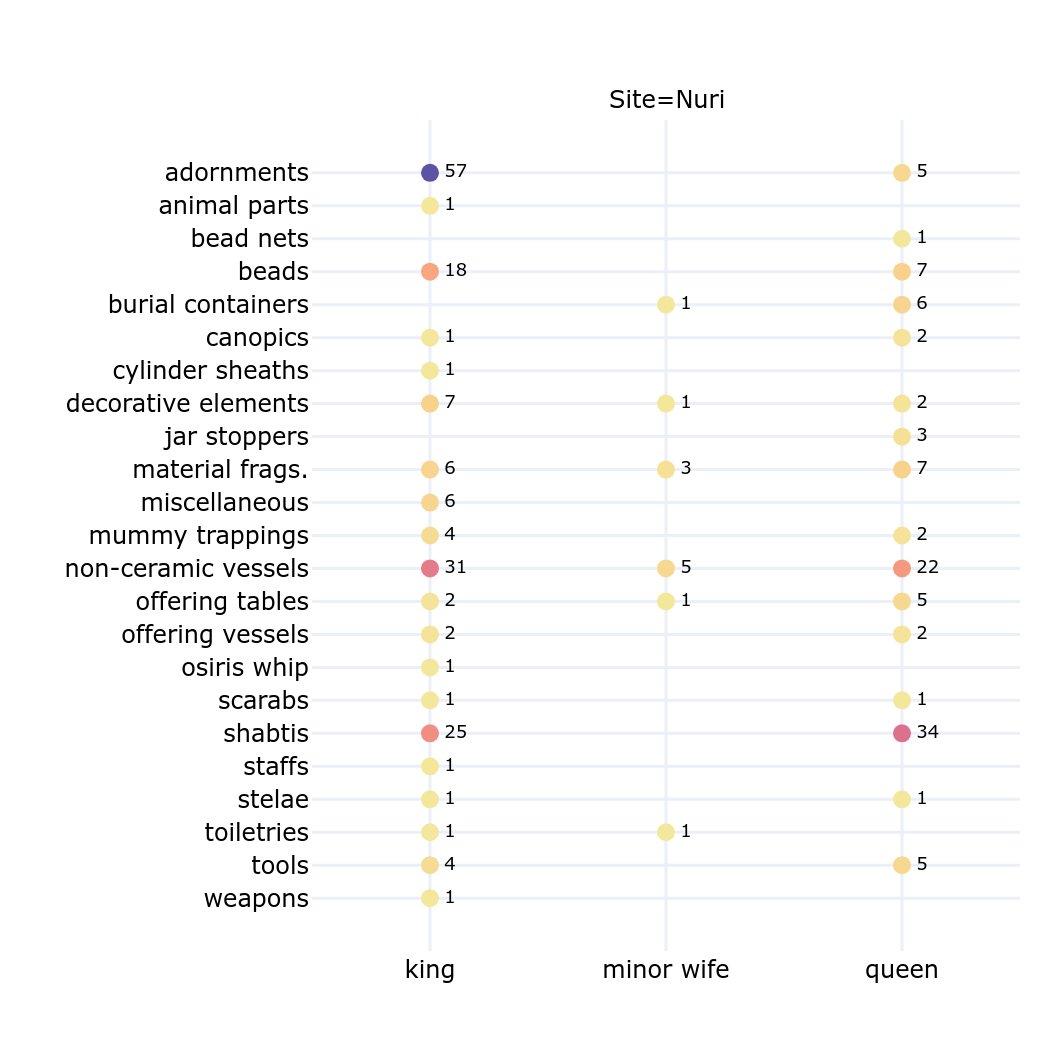
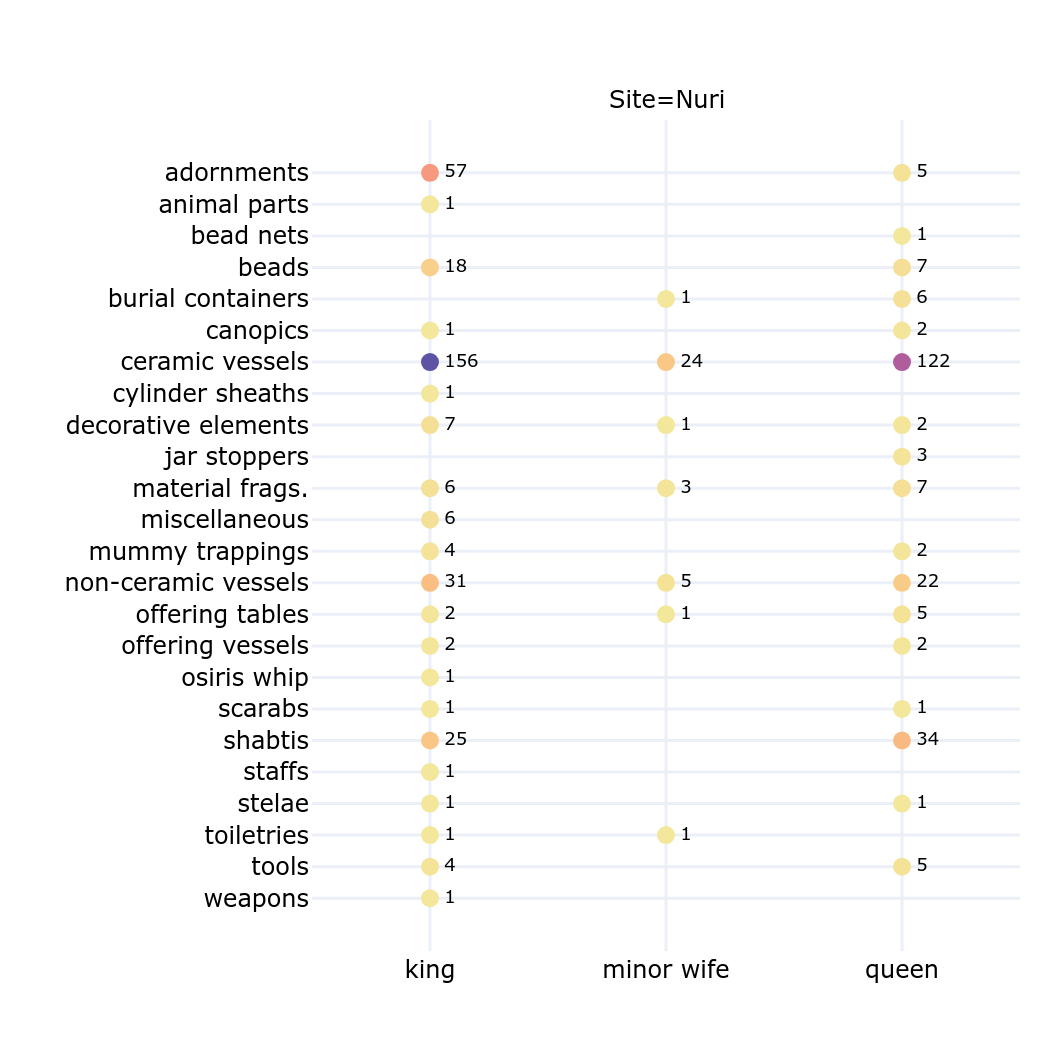
finished chapter 4 revision

diff --git a/chapters/4-chapter4.tex b/chapters/4-chapter4.tex
@@ -1425,9 +1425,7 @@ Similarly to Middle Napatan, the majority of tombs featured a chapel, with the s
  Object types at the two El-Kurru pyramids were very limited (Figure \ref{fig:LN-royal-objs}). The unused king's tomb (Ku. 1) only yielded ceramic and offering vessels, whereas the queen's pyramid (Ku. 2) featured, possibly, 152 shabtis---Reisner found the shabtis in Ku. 6 and presumed that they were originally from Ku. 2 \parencites[p.~25, 43]{dunhamElKurru1950}. At Nuri, shabtis are much less numerous than previous periods, with 34 instances with queens and 25 with kings. Scarabs and animals parts, absent during the Middle Napatan phase, resumed in Late Napatan burial assemblages. In contrast, furniture,  scarabs and statuettes are entirely absent in this group. The disappearance of furniture is likely attributable to poorer preservation conditions, given that such items were often made of perishable materials, such as wood. The case of heart scarabs is more intriguing; although always a rare occurrence in previous phases, they were nonetheless present, sometimes in a pair. Their complete absence in the Late Napatan period is therefore significant and may reflect a shift in burial practices.
  
  
- Regarding Nuri, a unique find from this phase is a model Osiris whip (or flail) made of gold, found in the tomb of king Harsijotef (Nu. 13). As no other examples appear in any previous phase, its singular occurrence may be a result of looting, in the case others were also made of gold. Flails have been included as graves goods of Egyptian kings, namely Senebtisi and Hapiankhtifi from the Middle Kingdom \parencites[p.~78, figs.~35, 9]{maceTombSenebtisiLisht1916}[p.~244, cat.~181]{quirkeUnderstandingDeathJourney2015}. Tutmosis III's mummy also suggested that he was buried grasping a cylindrical object in his left hand, likely a flail, which was taken when his burial was looted \parencites[p.~5]{smithRoyalMummiesCG1912}. This could potentially be the case with other Napatan royal burials. Bead nets are an interesting case as well; since their emergence in the 25th Dynasty, they were exclusively found in female burials, primarily at queens', up to the Late Napatan phase. This pattern suggests that they may have a gender and title association.
- The number of shabtis in Nuri decreased significantly, with only 34 instances in queens' tombs and 25 in kings'. Nevertheless, they were one of the most common object types, along with adornments, and non-ceramic vessels. Surprisingly, no ceramic vessels were recorded  
- As with the previous phase, kings were buried with the most diverse object assemblage, lacking only bead nets, burial containers and jar stoppers.
+ Regarding Nuri, a unique find from this phase is a model Osiris whip (or flail) made of gold, found in the tomb of king Harsijotef (Nu. 13). As no other examples appear in any previous phase, its singular occurrence may be a result of looting, in the case others were also made of gold. Flails have been included as graves goods of Egyptian kings, namely Senebtisi and Hapiankhtifi from the Middle Kingdom \parencites[p.~78, figs.~35, 9]{maceTombSenebtisiLisht1916}[p.~244, cat.~181]{quirkeUnderstandingDeathJourney2015}. Tutmosis III's mummy also suggested that he was buried grasping a cylindrical object in his left hand, likely a flail, which was taken when his burial was looted \parencites[p.~5]{smithRoyalMummiesCG1912}. This could potentially be the case with other Napatan royal burials. Bead nets are an interesting case as well; since their emergence in the 25th Dynasty, they were exclusively found in female burials, primarily at queens', up to the Late Napatan phase. This pattern suggests that they may have a gender and title association. The number of shabtis in Nuri decreased significantly, with only 34 instances in queens' tombs and 25 in kings'. Nevertheless, they were one of the most common object types, along with adornments, and ceramic and non-ceramic vessels. As with the previous phase, kings were buried with the most diverse object assemblage, lacking only bead nets, burial containers and jar stoppers. Overall, the number and diversity of object types decreased compared to earlier phases.
  
  
  \subsection{Amulets} 
@@ -1462,7 +1460,7 @@ Similarly to Middle Napatan, the majority of tombs featured a chapel, with the s
  }
  
  
- The Late Napatan period featured the least amount of amulets of all Napatan phases, with only 17 amulets distributed in 6 tombs (Table \ref{tab:LN-royal-distro}). As in the Middle Napatan period, not all kings' tombs contained amulets. However, their frequency increases, with amulets appearing in 60\% of kings' burials. 50\% of queens' were buried with amulets, in contrast to the total absence of amulets in the burials of minor wives. Furthermore, queens and kings were buried with the same average number of amulets.
+This phase contains only 17 amulets distributed across 6 tombs (Table \ref{tab:LN-royal-distro}). As with the previous phase, not all kings' tombs contained amulets. However, their frequency increased to 60\%. 50\% of queens' were buried with amulets, in contrast to the total absence of amulets in the three burials of minor wives. The median number of amulets was the same as the previous phase, 1 for kings and 0 for queens and minor wives.
  
  
  \subsubsection{Amulet types}
@@ -1475,20 +1473,22 @@ Similarly to Middle Napatan, the majority of tombs featured a chapel, with the s
  \end{figure}
  
  
- There are only two categories of Late Napatan amulets: symbols and deities (Figure \ref{fig:LN-royal-types}). Symbols continue to be more numerous, with 15 amulets: seven with kings and eight with queens. Deities comprise two amulets, one in each type of burial.
+There are only two categories of amulets: symbols and deities (Figure \ref{fig:LN-royal-types}). Even with the low number of amulets, symbols were still the most common, with 15 amulets. Seven were found with kings and eight with queens. Deities comprise only two amulets, one with each owner.
  
  
- \subsubsection{Amulet motifs}
+\subsubsection{Amulet motifs}
  
- \begin{figure}[H]
+\begin{figure}[H]
  	\centering
  	\includegraphics[width=1\textwidth]{LN-royal-motifs}
  	\caption{Distribution of amulet motifs in Late Napatan royal tombs by occupant's title.}
  	\label{fig:LN-royal-motifs}
- \end{figure}
+\end{figure}
  
  
- Unlike previous phases, in Late Napatan, kings' burials feature the most diverse set of amulet motifs, with six different ones, in contrast with only two for queens (Figure \ref{fig:LN-royal-motifs}). The \textit{udjat} resumed its position as the most common amulet, primarily associated with queens. Both of the kings' \textit{udjat} amulets were buried with Harsijotef (Nu. 13) and were strung in a gold wire forming bracelets (Figure \ref{fig:LN-royal-udjat}). Conversely, the \textit{menat} is represented by only one amulet, included in the tomb of king Baskakeren (Nu. 17).
+Unlike previous phases, in the Late Napatan phase, kings' burials feature the most diverse set of amulet motifs, with six different ones (Figure \ref{fig:LN-royal-motifs}). This includes two \textit{udjat}, two \textit{uraeus}, a \textit{menat}, a \textit{ba} bird, the god Anubis, and a winged griffin. Queens were buried eight \textit{udjat} and the god Qebehsenuef.
+
+The \textit{udjat} resumed its position as the most common amulet and primarily associated with queens. Both of the kings' \textit{udjat} amulets were buried with Harsijotef (Nu. 13) and were strung in gold wire bracelets (Figure \ref{fig:LN-royal-udjat}).
  
  
  \begin{figure}[H]
@@ -1507,7 +1507,8 @@ Similarly to Middle Napatan, the majority of tombs featured a chapel, with the s
  \end{figure}
  
  
- The \textit{uraeus}, previously exclusive to the tombs of queens and minor wives, now appeared solely in the burials of kings. In contrast, the association of the Four Sons of Horus with queens continued, exemplified by a single amulet of Qebehsenuef found in a queen's burial—although a complete set of all four deities remained absent. The second-known Anubis amulet from a royal burial was found in the tomb of king Nastasen. Both this one and the first (from a 25th Dynasty minor wife at Nuri) were made of gold. Similarly, \textit{ba} bird amulets remained very rare, with only three instances recorded across the entire royal burial corpus; each was found in a different burial (both king and queen) from a different phase (25th Dynasty, Middle and Late Napatan).
+The \textit{uraeus}, previously exclusive to the tombs of queens and minor wives, now appeared solely in the burials of kings. In contrast, the association of the Four Sons of Horus with queens continued, exemplified by the single amulet of Qebehsenuef---although a complete set of all four deities remained absent.
+The Anubis amulet is the second to be featured in a royal burial (from Nastasen), the first was from the tomb of a 25th Dynasty minor wife. Notably, both were made of gold. Similarly, \textit{ba} bird amulets remained very rare, with only three instances recorded across the entire royal burial corpus; each was found with different occupants (kings and queens) from different phases (25th Dynasty, Middle and Late Napatan).
  
  
  \begin{wrapfigure}{l}{0.3\textwidth}
@@ -1518,7 +1519,7 @@ Similarly to Middle Napatan, the majority of tombs featured a chapel, with the s
  \end{wrapfigure}
  
  
- The winged griffin is a particularly interesting motif (Figure \ref{fig:LN-griffin}). Unfortunately, I was not able to locate a recent picture of it, even though it was assigned to the Sudan National Museum. In the report, Dunham included a question mark after the description, likely because he was not sure of the design. Examining the photograph included in the report, it appears to depict a winged quadruped animal with an avian head, which could be interpreted as a griffin. A similar motif was found in Meroe South and will be discussed in Chapter 5. The iconography of the griffin is attested in Egypt with many different designs, including winged \parencites{hsuGriffinVisualWritten2011}. Depictions of winged griffins are attested in the Middle Kingdom, with one interpretation pointing their connection to magical knives and the rebirth of the sun god \parencites{colloffReinterpretingGriffinsMiddle2022}, while others suggest their connections with the god Nefertum \parencites{sabbahyMiddleBronzeAge2017}. From the New Kingdom, the ceremonial axe of Ahmose contains a winged griffin above a scene of the king striking an enemy, prompting the interpretation that the griffin is a representation of the king \parencites{wyattGraspingGriffinIdentifying2010}. However, the occurrences of this motif as an amulet appear to be unique to Nubia during this period.
+The winged griffin is a particularly interesting motif (Figure \ref{fig:LN-griffin}). Unfortunately, I was not able to locate a recent picture of it, even though it was assigned to the Sudan National Museum in Khartoum. In the report, Dunham included a question mark after the description, likely because he was not sure of the design. Examining the photograph included in the report, it appears to depict a winged quadruped animal with an avian head, which could be interpreted as a griffin. A similar motif was found in Meroe South and will be discussed in the next chapter. The iconography of the griffin is attested in Egypt with many different designs. Interpretations for their symbolism indicate their connection to magical knives and the rebirth of the sun god, and to the god Nefertum \parencites\parencites{hsuGriffinVisualWritten2011}{sabbahyMiddleBronzeAge2017}{colloffReinterpretingGriffinsMiddle2022}. The ceremonial axe of Ahmose contains a winged griffin above a scene of the king striking an enemy, prompting the interpretation that the griffin is a representation of the king \parencites{wyattGraspingGriffinIdentifying2010}. However, the occurrences of this motif as an amulet appear to be unique to Nubia during this period.
  
  \subsubsection{Amulet materials}
  
@@ -1529,15 +1530,15 @@ Similarly to Middle Napatan, the majority of tombs featured a chapel, with the s
  	\label{fig:LN-royal-materials}
  \end{figure}
  
- The trend towards reduced material diversity culminated in this phase, with amulets being made of only four distinct materials (Figure \ref{fig:LN-royal-materials}). Most strikingly, faience was not the most popular material, with only a single \textit{menat} example. The \textit{udjat} amulets were crafted from serpentinite and milky quartz, while gold became the exclusive material for all other motifs and the most prevalent material. The two \textit{udjat} amulets were made of serpentinite and milky quartz, which were sourced from the Aswan region or further north \parencites[p.~506-507, 759]{harrellArchaeologyGeologyAncient2024}. This marked decline in amulet use and diversity may reflect the broader decline of the Napatan period.
+The trend towards reduced material diversity culminated in this phase, with amulets being made of only four distinct materials (Figure \ref{fig:LN-royal-materials}). Most strikingly, faience was not the most popular material, with only a single \textit{menat} example. Gold was most the prevalent material, with 14 total amulets mostly from queens. The two \textit{udjat} amulets were made of serpentinite and milky quartz, which were sourced from the Aswan region or further north \parencites[p.~506-507, 759]{harrellArchaeologyGeologyAncient2024}. This significant decline in amulet use and diversity may reflect the broader decline of the Napatan dynasty, with less access to resources and trade routes.
  
  \section{Conclusion}
  
- The primary aim of this chapter was to employ chronological analysis and comparison between each phase of the Napatan period in relation to tomb structure, funerary objects and amulets. A quantitative analysis of the royal burial sites shows a clear evolution of the tomb configuration. Regarding super and substructures, tumuli is succeeded by pyramids and the pit by underground chambers. Due to the inclusion of chambers, stairs also become ubiquitous. Middle and Late Napatan tombs have more chapels, with some exceptions. Although destruction of earlier chapels must be considered, it is notable that they survived more in later burials. From the Early Napatan phase, there are no more cutouts for burial beds and coffin benches occur in the majority of tombs. Decoration is sparse and does not seem to follow a gender or title association. It is likely that the lack of decoration is a result of poor preservation. A clear hierarchy based on gender and title in evident in the number of chambers.  Three-chambered tombs, introduced for kings in the Early Napatan phase, became the standard in the Middle Napatan phase. In contrast, two chambers are associated with queens and one chamber with minor wives, though exceptions exist in both cases.
+The primary aim of this chapter was to employ chronological analysis and comparison between each phase of the Napatan period in relation to their tomb structure, funerary objects and amulets. A quantitative analysis of the royal burial sites shows a clear transition of the tomb configuration. Regarding super and substructures, tumuli were succeeded by pyramids and the pit by underground chambers. Due to the inclusion of chambers, stairs also become ubiquitous. Middle and Late Napatan tombs included more chapels, and, although destruction of chapels must be considered, it is notable that they had a higher rate of preservation in later burials. From the Early Napatan phase, there are no more cutouts for burial beds and coffin benches occur in the majority of tombs. Decoration is sparse and does not seem to follow a gender or title association. However, it is likely that the lack of decoration is a result of poor preservation. A clear hierarchy based on gender and title in evident in the number of chambers, especially in later phases.  Three-chambered tombs, introduced for kings in the Early Napatan phase, became the standard from the Middle Napatan phase. In contrast, two chambers are associated with queens and one chamber with minor wives, though exceptions exist in both cases.
  
  
- Funerary object assemblages show continuity despite variation across phases and titles. Only five object types were exclusive to a single period: pebbles, games and toys, shrines, and likely poorly-preserved clothing from the 25th Dynasty; as well as the Osiris whip from Late Napata. In contrast, seven types occurred in all phases, and eight objects introduced in the 25th Dynasty became permanent additions. These objects include bead nets, burial containers, canopics, mummy trappings, staffs, stelae, toiletries and tools. This suggests the Kushite rule of Egypt prompted a change in the funerary cult, as evidenced by the 25th Dynasty's diverse assemblage. Crucially, the Kushites were not passive recipients of an Egyptian tradition but active innovators, introducing new objects like bead nets and re-introducing older practices such as offering tables. On the other hand, cylinder sheaths represent a uniquely Napatan innovation. First adopted in the Early Napatan phase following the withdrawal from Egypt, they persisted as a distinctive feature of royal burials in later tombs.
+Funerary object assemblages show continuity despite variation across phases and titles. Only five object types were exclusive to a single period: pebbles, games and toys, shrines, and likely poorly-preserved clothing from the 25th Dynasty; as well as the Osiris whip from Late Napatan phase. In contrast, seven types occurred in all phases, and eight objects introduced in the 25th Dynasty became permanent additions. These objects include bead nets, burial containers, canopics, mummy trappings, staffs, stelae, toiletries and tools. This suggests the Kushite rule of Egypt prompted a change in the funerary cult, as evidenced by the 25th Dynasty's diverse assemblage. Crucially, the Kushites were not passive recipients of an Egyptian tradition but active innovators, introducing new objects like bead nets and re-introducing older practices such as offering tables. On the other hand, cylinder sheaths represent a uniquely Napatan innovation. However, unless most of them were in fact looted, they do not appear to be objects available for all royalty and their use may have lasted only two phases.
  
  
- The 25th Dynasty represents the high point of Napatan amulet use, featuring the greatest diversity of motifs, the highest quantity, and unique designs that blend Egyptian and local traditions. Following this peak, both the number and variety of amulets declined significantly. Symbols are the most numerous category of all amulets, on account of \textit{udjat} and \textit{menat} amulets, the most popular motifs across all phases. In fact, the \textit{udjat} is the only amulet motif occurring in all phases. This motif was extremely popular in Egypt since the Old Kingdom and was exported to other locations such as the Levant and Israel \parencites[p.~43-44]{andrewsAmuletsAncientEgypt1994}[p.~611-773]{herrmannÄgyptischeAmuletteAus1994}{arroyoCulturaMaterialAntigo2024}. The material composition of amulets indicate a strong preference for faience, possibly due to the availability of the material. Yet, the diversity of materials also suggests access, albeit restricted in later phases, to a range of other materials, including imported ones, mostly from the Egyptian Eastern Desert region.
+The 25th Dynasty represents the high point of Napatan amulet use, featuring the greatest diversity of motifs, the highest quantity, and unique designs that blend Egyptian and local traditions. Following this peak, both the number and variety of amulets declined significantly. Symbols are the most numerous category in all phases, on account of \textit{udjat} and \textit{menat} amulets, two of the most common motifs. In fact, the \textit{udjat} is the only amulet to be present in all phases, underscoring their dissemination. Material composition indicates a strong preference for faience, possibly due to the availability of the material locally. Although no workshops for the common people have been found, it is likely that there were multiple, given the spread of faience and the New Kingdom colonisation, which would have needed these workshops to supply the temple towns. Nevertheless, the diversity of materials also suggests access---albeit restricted in later phases---, to a range of other materials, the majority from the Egyptian Eastern Desert, but also from more distant regions.
  
